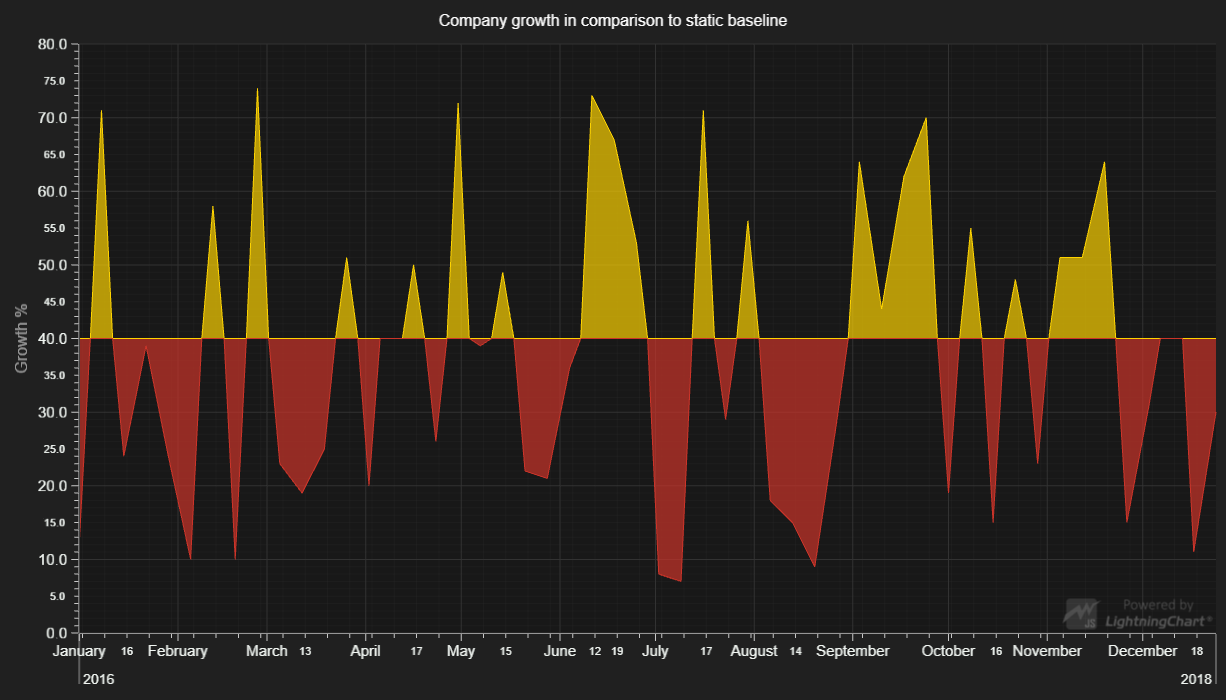
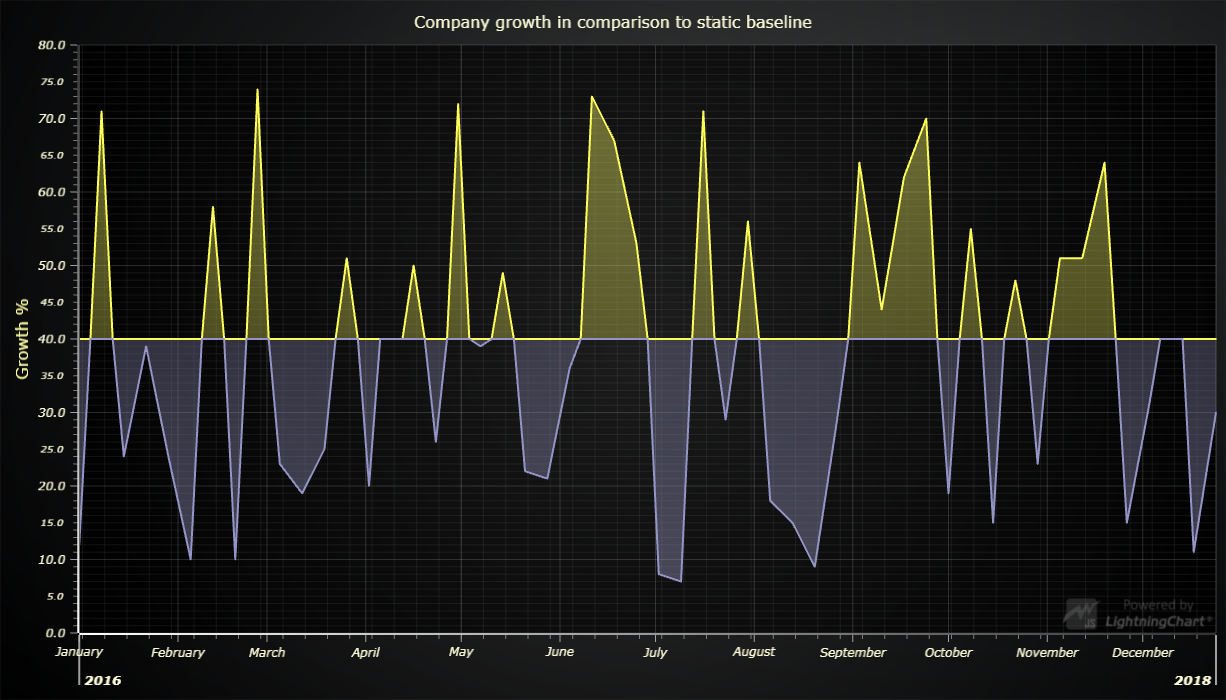
Update LCJS version

diff --git a/webpack.config.js b/webpack.config.js
@@ -69,7 +69,8 @@ module.exports = {
         }),
         new CopyWebpackPlugin({
             patterns: [
-                { from: './assets/**/*', to: './examples/assets', flatten: true, noErrorOnMissing: true }
+                { from: './assets/**/*', to: './examples/assets', flatten: true, noErrorOnMissing: true },
+                { from: './node_modules/@arction/lcjs/dist/resources', to: 'resources', noErrorOnMissing: true },
             ]
         })
     ]

diff --git a/src/index.js b/src/index.js
@@ -23,7 +23,7 @@ const dateOrigin = new Date(2017, 0, 1)
 
 // Create a XY Chart.
 const xyChart = lightningChart().ChartXY({
-    // theme: Themes.dark
+    // theme: Themes.darkGold
 })
 xyChart.getDefaultAxisX().setTickStrategy(AxisTickStrategies.DateTime, (tickStrategy) => tickStrategy.setDateOrigin(dateOrigin))
 xyChart.setTitle('Company growth in comparison to static baseline')

diff --git a/README.md b/README.md
@@ -86,8 +86,8 @@ Direct developer email support can be purchased through a [Support Plan][4] or b
 © Arction Ltd 2009-2020. All rights reserved.
 
 
-[XY cartesian chart]: https://www.arction.com/lightningchart-js-api-documentation/v3.0.1/classes/chartxy.html
-[Area series]: https://www.arction.com/lightningchart-js-api-documentation/v3.0.1/classes/chartxy.html#addareaseries
-[Area type]: https://www.arction.com/lightningchart-js-api-documentation/v3.0.1/globals.html#areaseriestypes
-[Bipolar Area series]: https://www.arction.com/lightningchart-js-api-documentation/v3.0.1/classes/areaseriesbipolar.html
+[XY cartesian chart]: https://www.arction.com/lightningchart-js-api-documentation/v3.1.0/classes/chartxy.html
+[Area series]: https://www.arction.com/lightningchart-js-api-documentation/v3.1.0/classes/chartxy.html#addareaseries
+[Area type]: https://www.arction.com/lightningchart-js-api-documentation/v3.1.0/globals.html#areaseriestypes
+[Bipolar Area series]: https://www.arction.com/lightningchart-js-api-documentation/v3.1.0/classes/areaseriesbipolar.html
 
